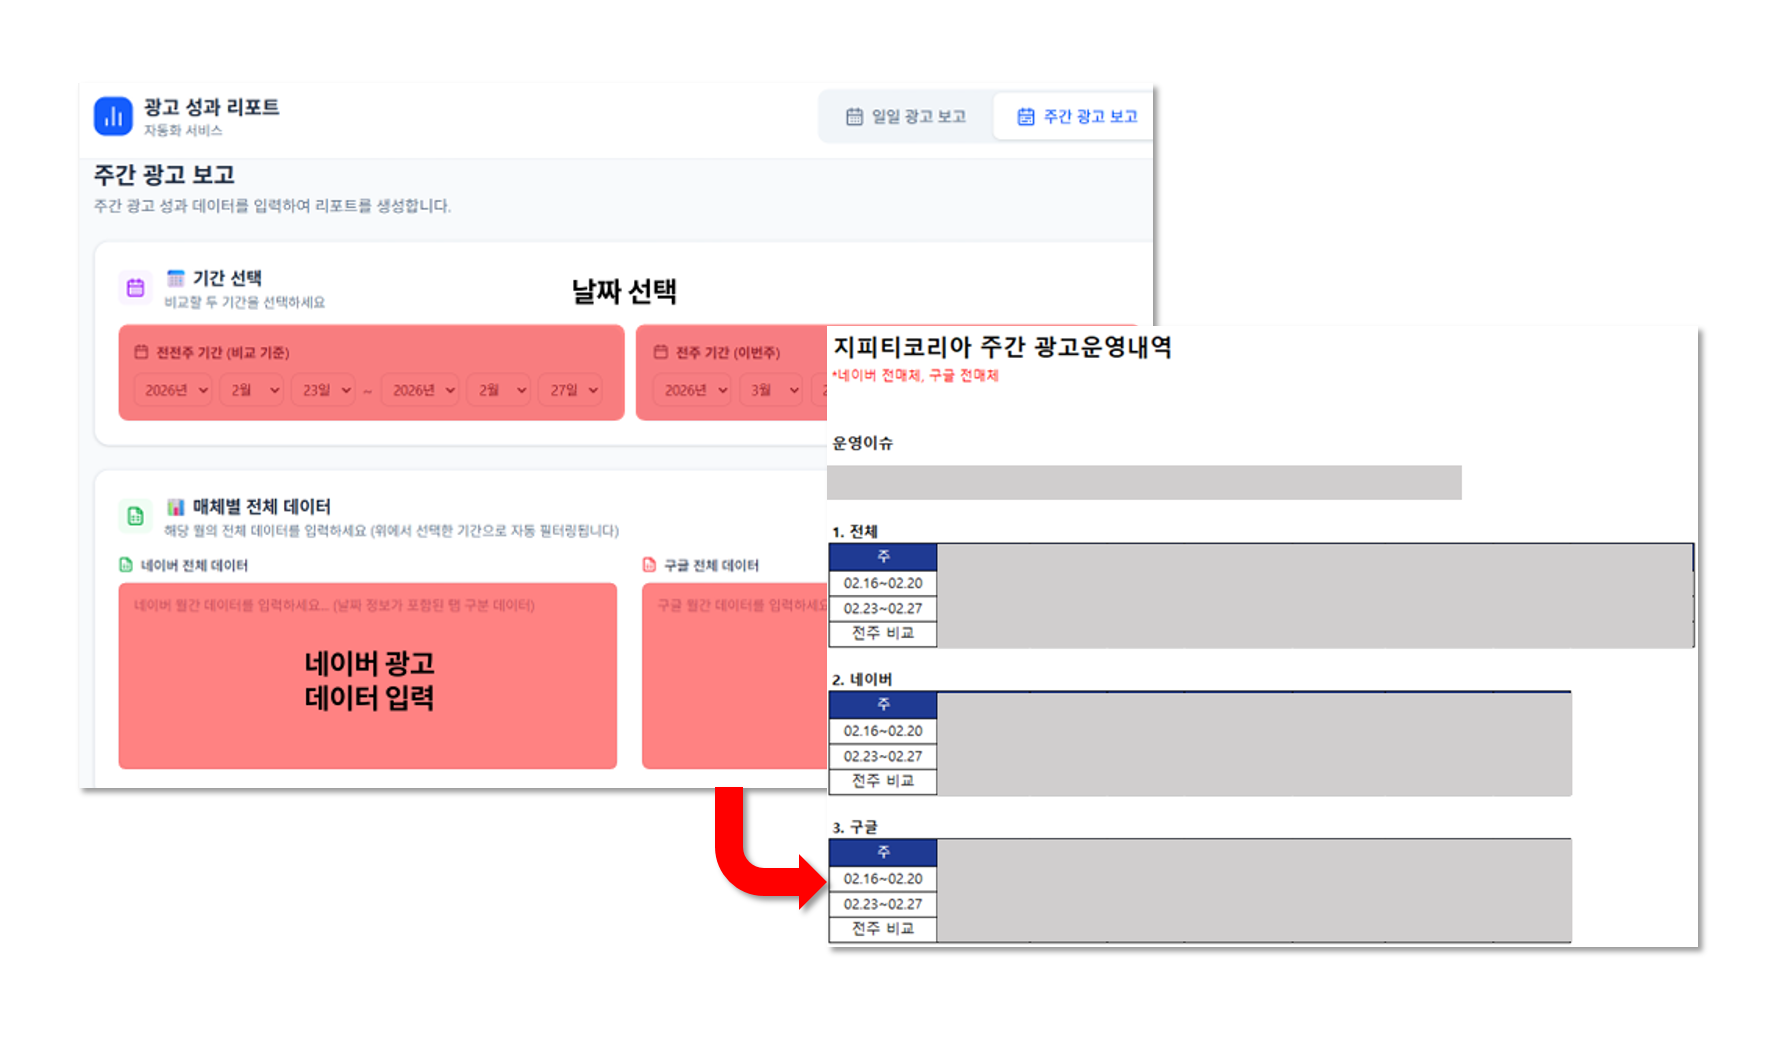
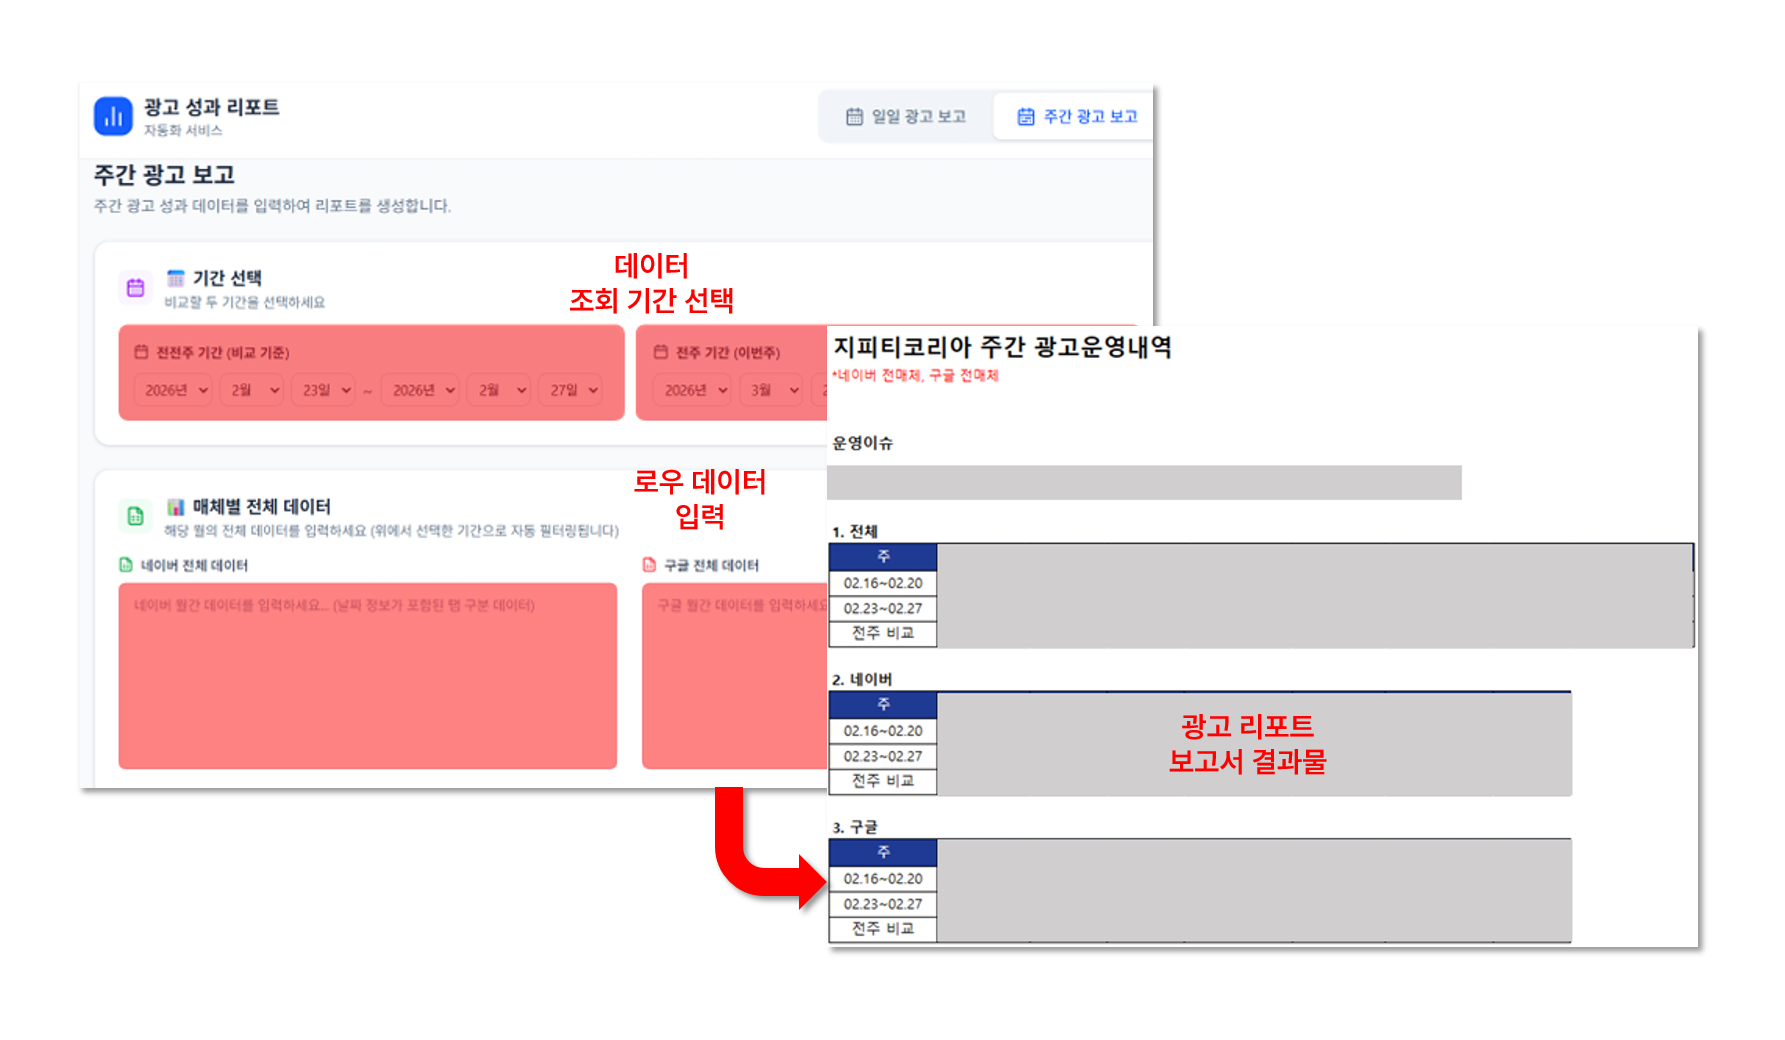
260508_1645

diff --git a/Portfolio.html b/Portfolio.html
@@ -1671,14 +1671,20 @@
                    caption: "*교육자료 예시", ratio: "16 / 9" },
           clients: [
             { group: "공기업·공공기관", items: [
-              { name: "안전보건공단",       logo: "프로젝트 이미지/클라이언트 이미지/안전보건공단.gif", scale: 1.6 },
+              { name: "안전보건공단",       logo: "프로젝트 이미지/클라이언트 이미지/GuSlT_qPD38ecXm3HLuSKTA6eu6Jex9WCFnbNl1wA59uMHv4grH-Oo_x75IjjMsBF_w4eVYOSam3tbmQt2neG82FRv7tgdxy2phYxxYCW1rW__0sZaU74vCuMdnVAI4v5gFx3zRLqNjerN9Jw7uQaA.svg" },
               { name: "한국생산기술연구원", logo: "프로젝트 이미지/클라이언트 이미지/한국생산기술연구원-removebg-preview.png" },
-              { name: "국회",              logo: "프로젝트 이미지/클라이언트 이미지/국회 이미지.svg" }
+              { name: "국회",              logo: "프로젝트 이미지/클라이언트 이미지/국회 이미지.svg" },
+              { name: "한국교통안전공단",   logo: "프로젝트 이미지/클라이언트 이미지/한국교통안전공단.jpg" },
+              { name: "KOTITI",             logo: "프로젝트 이미지/클라이언트 이미지/KOTITI.png" },
+              { name: "신용보증재단",       logo: "프로젝트 이미지/클라이언트 이미지/신용보증재단.png" }
             ]},
             { group: "기업", items: [
               { name: "한국무역협회", logo: "프로젝트 이미지/클라이언트 이미지/한국무역협회 배경 제거.png" },
               { name: "해태제과",     logo: "프로젝트 이미지/클라이언트 이미지/해태제과.png" },
-              { name: "아이보스",     logo: "프로젝트 이미지/클라이언트 이미지/아이보스-removebg-preview.png" }
+              { name: "아이보스",     logo: "프로젝트 이미지/클라이언트 이미지/아이보스-removebg-preview.png" },
+              { name: "팔도",         logo: "프로젝트 이미지/클라이언트 이미지/팔도.png" },
+              { name: "삼지전자",     logo: "프로젝트 이미지/클라이언트 이미지/삼지전자.png" },
+              { name: "내츄럴엔도텍", logo: "프로젝트 이미지/클라이언트 이미지/그림1.png" }
             ]}
           ]
         },
@@ -1971,13 +1977,13 @@
             items: ["구글 GA · 네이버 검색광고 등 엑셀 로우데이터 입력만으로 보고서 자동 생성",
                     "데이터 정제 · 함수 계산 자동화",
                     "자사 기존 엑셀 보고서 형식 그대로 출력"],
-            image: { src: "프로젝트 이미지/Project 06/광고운영리포트.png",
+            image: { src: "프로젝트 이미지/Project 06/광고운영리포트.png?v=2",
                      alt: "광고운영리포트 자동화 화면",
                      caption: "*광고운영리포트 자동화 결과" } },
           { title: "지출증빙용 영수증 OCR Agent",
             items: ["영수증 이미지 업로드 시 원하는 항목 자동 파싱",
                     "결과물 표 형태 즉시 확인 및 엑셀 다운로드 지원"],
-            image: { src: "프로젝트 이미지/Project 06/영수증 OCR 최종.png",
+            image: { src: "프로젝트 이미지/Project 06/영수증 OCR 최종.png?v=2",
                      alt: "영수증 OCR Agent 결과 화면",
                      caption: "*영수증 OCR Agent 결과 화면" } },
           { title: "업무 일정 관리 도구",
